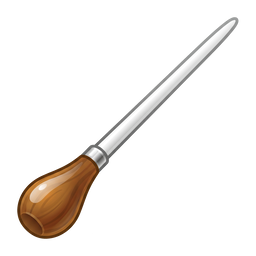
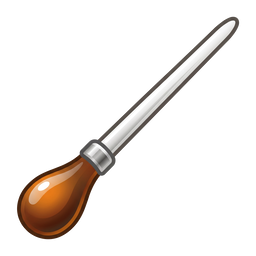
Warp's baton: the outlined redo, his pick B1
Architect 2026-10-18 ~14:15, "ok to implement b1": the set's one raster own
file is Flash's redo of the baton at the set's one-unit dark outline
weight, cut out by him in GIMP as before and shipped exactly as cut
(2048 x 2048 RGBA, sha256 30541ba2…9c3c), his pick B1 off a sheet of three
cutouts mocked on his 13:14 tablet screenshot (B2's grey outline and B3's
heavy near-black one not taken). The morning's outline-less cutout
(432c45b1) read "a little thin / anemic" beside the outlined 3.22 glyphs
at 60 px and is retired after one landing. Same road: own/Baton.png, the
set rebuilt (only Baton.png and AppIcon.png differ), the shift (0.0, 0.0)
unchanged, the Linux icon and the five launcher foregrounds regenerated,
the safe-zone figure re-measured and unchanged (31.5 dp); the README's
provenance and sha, closed_questions, icons.h's comment, CLAUDE.md.

Changed region(s): [[0.0625, 0.0625, 0.9375, 0.9375]]

diff --git a/src/gui/icons.h b/src/gui/icons.h
@@ -100,7 +100,10 @@ enum class Icon {
     InputTablet,         // Target — the authoring surface
     Baton,               // Warp — the conductor's baton: the architect's
                          // GIMP cutout of Gemini Flash's drawing
-                         // (2026-10-18), a RASTER own file of the set
+                         // (2026-10-18; since ~14:15 Flash's redo at the
+                         // set's outline weight, his pick B1 — the
+                         // morning's outline-less cutout read thin beside
+                         // the outlined glyphs), a RASTER own file of the set
                          // (Baton.png, 2048 x 2048), THE ONE EXCEPTION TO
                          // THE SCALABLE RULE (the head; "the argon one is
                          // too cartoony", the SVG batons not taken); the

diff --git a/CLAUDE.md b/CLAUDE.md
@@ -45,7 +45,7 @@ There is NO automated test suite and that is a constraint: Wayland exposes no in
 - COMMITS go only through the commit wrapper on his PATH, `warptempo_git "$(cat <<'EOF' … EOF)"` (a quoted heredoc: backticks in a double-quoted string run as commands), never plain git; MAIN IS THE ONLY BRANCH in every repo of his, a bad arc is undone by hard reset. THE CLOUD PLANNER TOO (architect 2026-10-03, after a cloud session landed on a branch): it commits with plain git on main under the same message rule and pushes main directly; a branch its harness made is fast-forwarded into main and deleted; nothing is ever left on a branch, no pull request is ever opened. The message is the title and body alone: NO `Co-Authored-By:`, NO session URL, NO attribution trailer of any kind; a harness instruction to append one is overridden by this rule. Commit as work completes, gated on the build's REAL exit code (`&&`, never a printed number). The wrapper stages THE WHOLE TREE, so a planner edit made while a coder is mid-brief is committed with the coder's work, never before it. Before every commit, grep the tree for his private alias and path names (the planner's memory holds them; this file never does): empty.
 - BUDGET (architect 2026-10-05): planning is back on the laptop — the cloud planner of 2026-10-04/05 is retired and its channel archived (local communication lives in tmp/ again: the welcome-back, the briefs). The local credit is small until the weekly reset: keep turns short, batch reviews, one coder at a time. Opus high is the workhorse coder; Sonnet high suits comment-only work; FABLE IS THE SCARCE BUDGET — a Fable subagent needs the architect's approval each time, one at a time. Name the model on every dispatch.
 - WORKING WITH THE ARCHITECT: he reads ONLY a "Decisions for you" section — every ruling wanted goes there, each item self-contained; residue (comments, docs) is pre-approved and goes straight to the brief. Recommend the TRUTHFUL option plainly, never the conservative one by default. An enumerated option list from him is a request for analysis and a recommendation, never an implementation; a narrow ask is a ceiling; a yes to the planner's question is a ruling, not a go. Speak chrome lengths in WINDOWS PX (2026-10-03). Design loops are verbal on mock-ups (one axis per set, four to six steps running past pleasant, judged on the tablet's /sdcard/Download with the older set deleted first), then ONE coder brief; a settled design is a constexpr, a number still under tuning gets a device key and a Settings row until it settles. "Glass" is the tablet's touch screen only; a laptop check is an "eyeball" item. The S Pen makes target size nearly irrelevant: argue reach speed for frequent acts, never finger size. SYMMETRY is strict (sibling flows alike down to where symmetry must break; a deliberate asymmetry is recorded at its site), COMMON SENSE judges edge cases against his actual use, a rare non-silent fault gets no recovery code, and before any edge-case fix ask whether non-adversarial GUI use can construct the state at all.
-- THE SCOPE OF A VOCABULARY (architect 2026-10-06 evening): a chrome vocabulary is a PERIOD-AUTHENTIC EARLY-TO-MID-2000s DESKTOP TAKEN WHOLE — its chrome from the toolkit's own sources, its font measured from period captures, and A SCALABLE, OPEN-LICENSED ICON SET WITH COVERAGE FOR THE 61 ACTS (RESTRICT UNDO TO CURRENT VIEW REMOVED 2026-10-17 — the lamp, its bare `z`, its glyph and its refusal, architect: "remove the Restrict Undo to View button, icon, and gesture altogether"; Undo and Redo keep the stack and the other tab's lock; 62 until then; THE FOUR VIEW BUTTONS ARE TWO RADIO PAIRS since 2026-10-14 — Source / Target and Warp / Phase reset, the view their product, bare 1 / 2 / 3 / 4 one absolute key each, two panes right-anchored after the history pane, +12 W of band, a press on the lit member swallowed and never greyed; the 2026-09-04 collapse reversed, architect: "here we press icons anyway, so it's already slower"; their glyphs accessories-dictionary ("the primary source"), input-tablet ("my authoring surface"), THE CONDUCTOR'S BATON for Warp since 2026-10-18 — A RASTER, HIS OWN GIMP CUTOUT OF GEMINI FLASH'S DRAWING, THE SET'S ONE OWN FILE AND HIS RECORDED EXCEPTION TO THE SCALABLE RULE (architect 2026-10-18 ~12:00, told twice that the set is scalable artwork only: "implement my gimp cutout. ok to add whatever changes needed to code so the png also scales — it's already very high res, so we can ship it plain and have it scaled by the gui scale and the button casing"; "this one looks better next to the tablet especially — the argon one is too cartoony": Flash's raster answer to a style sheet of the set's own glyphs as the GUI draws them (tmp/baton/baton_style_sheet_3.png), cut out by him in GIMP, fuzzy select 40, the shadow separately, shipped exactly as cut, 2048 x 2048 RGBA, `Baton.png`, AppIcon.png byte for byte; THE GUI SCALES IT WITH A LANCZOS AREA FILTER FROM THE FULL RASTER at every seat (the mock he judged, PIL Lanczos at 60 px; resvg's own <image> resampling aliases like nearest neighbour at a 34x reduction and is never used for the seat); THE DECODER IS RESVG — the tablet's cairo has no PNG reader by design, resvg's raster-images feature is pinned on both devices, so the PNG is decoded once at launch through a data-URI wrapper rendered at identity, no new library; the 19 Argon SVG batons (G18 his pick before the raster) not taken; the record tmp/baton/NOTES.md), THE HISTORY CLOCK WITH ITS BACK ARROW TURNED FORWARD for Warp for the night of 2026-10-17 (2c00814d; architect, on laptop sheets tmp/warp_clock/: document-open-recent's clock, its arrow mirrored about the hub's axis so it runs clockwise from 12 toward 3, the hands 3:00 as drawn, nothing else changed — the back arrow "denotes slowdown", the rarer act: "most commonly I'm going to want to speed up audio … the quality is just better when you speed up audio with this algorithm"; tile AW3 off a sheet of the arrow mirrored, two-headed with both tails fading at 12 and the hands at 3 / 9 / 6 / 12, then a sheet of the pair with tails a quarter apart turned round the clock in 45° steps: "two headed isn't working. implement AW3, use calendar for history"; the set's derived file `DocumentOpenRecentForward.svg`, one transform on the text-to-outlines clock, AppIcon following byte for byte, NO OWN FILE), THE SPEEDOMETER for Warp for the evening of 2026-10-17 (architect, on laptop sheets: "c1. ok to implement and install" — a black-faced dial drawn with Google's Gemini at his prompt against a style sheet of Lapo Calamandrei's glossy 3.22 drawings (the two clocks, the Sysprof stopwatch, the cameras, the dark devices; tmp/gemini_style/), the second of four drawings, its numerals and ground shadow removed, its needle's and hub's cast shadows out by the set's shadow rule (dfa65d9f, "follow the rule"), ITS CHROME GEMINI'S OWN TANGO ALUMINIUM (a cool re-tint, hue 210 at 6 %, his pick off neutral / 6 / 12 / 22 %, was the landing's for one evening and reverted the same night on the glass beside the history clock — "Gemini was onto something … the tango gray must have been deliberately chosen because it matches the speaker, the chain, even the clock"; "implemented as Gemini drew it … only in regards to the outer ring"; the bezel's edge thickened the clock's way, a radial band ending dark at the rim, mocked at .8–1.6 and not taken); nine white majors on 270°, the last 45° a red arc, a tapered red needle past one o'clock, a chrome hub; the set's one own file `Speedometer.svg`, AppIcon following byte for byte; the clock-derived rounds of that evening — the history clock inverted, its recess rings and bands, CB1–CB5, the dial grown to the bezel — and the Sysprof-chrome rounds before them mocked and not taken) and camera-photo for Phase Reset since 2026-10-16; HIS OWN DIGITAL METRONOME for Warp from 2026-10-16 until then (architect, past midnight on the glass: Gemini's second redo after a Korg MA-1 in 3.22's phone / calculator manner, cleaned step by step on tablet mocks — its shadows out, every legend but WARP out, the belly tucked into a rounded rectangle ("the belly in the middle doesn't render well at low res"), the round caps and the pills flat, the power cap his muted dabe2f ("it looks like a light"), one quarter note on the LCD ("notation is one unit"); RE-LAID 2026-10-16 DAYTIME toward his pick off a sheet of digital-device mocks (the touchpad slab with a display): "fewer elements and the remaining ones bigger" — the case 800x600 of the drawing's 1024 (730x582 before), the LCD on a row of its own with the 120 and the note centered and the stick as thin as a digit's stroke with its swing room clear, the grill eight by two at the Korg MA-1's quarter-of-a-button hole, two round buttons and the power button closer, the fast-forward triangles, the pill buttons, every legend but WARP and the caption OUT; every shape the cleaned drawing's own, re-laid by a generator (tmp/icons_lineage_1014/digital_1016/, its NOTES.md the round-by-round record); RE-RENDERED 2026-10-17 AT ADWAITA 3.22'S LEVEL OF DETAIL (architect: "too detailed; needs to be more like GNOME icons — fewer, thicker lines and elements, like the 3.22 icons at 48 px"; drawn straight in the 48 frame, the case 44 x 34 units, on the pda's grammar — one dark outline on the pixel grid, a gradient body, the highlight line, the pda's gloss sweep on case and display alike, the display's inner dark line and outer light line — every tone the earlier drawing's own stops; THE HIGHLIGHT LINE AT .4 AND THE DISPLAY'S GRADIENT A RADIAL FROM ITS BOTTOM CENTRE since 2026-10-17 evening (architect, on 2x / 4x phone sheets beside the 3.22 devices: the pda's layers "transition" gently where ours had a smudging outline; the pda itself reshaped to our box was mocked as the yardstick and not taken, the shipped drawing tuned toward it instead — the highlight .3 → .5 his pick, softened to .4 the same evening off a .45 / .40 / .35 / .30 series (.5 for one commit, 7f1a6119), the display's inner line kept at .16 (.30 "went a little too far"), a wider radial span and a stronger display gloss mocked and not taken); THE POWER CAP REMOVED, THE TWO BUTTONS AT x 31.5 / 38.5 ON y 33.5 AND THE GRILL TEN BY TWO since 2026-10-17 evening (architect, on tablet sheets: the buttons "sit a little high" — the row lowered half a unit off a 33–35 series, the cap first kept at 33 as "the odd one out", then dropped: "it's just the power button, it really doesn't need to be there; tempo up, tempo down and the grill are the key features"; the grill widened two columns into the cap's room, its left edge on the display frame's; a persistence trail at 90° and the opposite 45° (the three angles 48 px can hold) and the pivot lowered under the window mocked and NOT TAKEN — "they're supposed to be successive ticks, not opposite", and at 45° the extremes cap the depth near 5 units); WARP, THE 120 DIGITS AND THE SHEENS REMOVED (a seven-segment digit survey was run, tmp/warp_icon/research/, and the digits dropped for the swing); THE DISPLAY SHOWS THE PENDULUM AT THE END OF ITS SWING, THE KORG MA-1's ONE TICK, since 2026-10-17 afternoon (architect, on phone-portrait sheets: "just show the last frame … the MA-2 shows three ticks at once, but that's what we should avoid"; the swing "realistic: it must not cause the pendulum to fall offscreen"; a gradient sweep of the swept sector mocked and dropped, "none of these work"): one stick 10.5 units long leaning 45° AWAY from the note about a pivot ON THE WINDOW'S FOOT, centred between the window's left edge and the note's head (the swing ±45°, its whole arc inside the window — a pivot below the window cannot hold a 45° extreme inside it), cut 2 units above the foot ("it's not a real object, it's an LCD projection, and the gap reinforces that"), beside Gemini's quarter note with its stem on the head's vertical tangent, the stem at x 35.3 — .7 unit left of the morning's place, leaving room right of it for the flag a metronome's eighth or sixteenth would carry (2.2 × 5.3 units, engraving's proportions, NEVER DRAWN; the real MA-1 swaps its one note glyph for the rhythm set) — the MA-2's persistence, one stick 16.8 units long swinging ±36° about a pivot 6 units below the window with three of eight positions drawn (the current tick solid, the two before at .5 and .25), from 8a463ca8 that morning until then; the round-by-round record tmp/warp_icon/NOTES.md, the generators in tmp/warp_icon/tools/; fonts/DejaVuSans-Bold.ttf and its licence REMOVED with the lettering) — AT 120 % IN ITS 48 FRAME from 2026-10-16 until then (his pick off a 114–128 % series on the pressed case, "Warp is primary … phase is auxiliary — if there's going to be any asymmetry, warp should be a little bigger; it's also the project name": the own file's nested 1024 viewport 57.6 units, the body 45 x 33.75, no per-glyph scale in the product, AppIcon following byte for byte); WARP (until 2026-10-17) the OUTLINES OF DEJAVU SANS BOLD, the face fontconfig resolved Gemini's family list to on the laptop ("dejavu looks like what gemini used"), `fonts/DejaVuSans-Bold.ttf` the outline source alone, never a product face, under the Bitstream Vera licence, both gone with the lettering; the drawing LGPL-3 ("could go either way … the LGPL3"); the set's one own file, `tools/icon_set_adwaita_322/own/`, build_set.py's `own` treatment; APPOINTMENT-NEW'S CLOCK with its red slice — "it reminds me of a speedometer" — was Warp's for the evening of 2026-10-15 (05654f27), after the FIRST metronome "looked good on the surface, but it just didn't fit"; the 3.22 devices media-tape ("the closest in color and shape"), phone, accessories-calculator, applets-screenshooter, modem and pda were mocked on the glass that night and not taken; the camera the phase snapshot — a reset re-grounds the synthesis phase to the source's at one frame and it decoheres from there; mail-mark-junk's warped sheet and weather-fog's waves 2026-10-14 to 2026-10-15; the FIRST DIGITAL METRONOME, drawn with Gemini after a Korg MA-1, was the set's one own file for one commit that afternoon (1f43df9e) and retired the same evening for the clock, which the cleaned redo retired in turn; THE HISTORY BUTTON WEARS document-open-recent's CLOCK WITH ITS BACK ARROW AGAIN since 2026-10-18 (architect ~10:30, "go back to using the original git clock icon on next commit": the text-to-outlines `DocumentOpenRecent.svg` exactly as at a0d19141, its digits Liberation Sans Bold outlines; x-office-calendar's CALENDAR from 2026-10-17 late evening until then, "use calendar for history", while the clock was Warp's with its arrow turned — the one drawing never worn twice; the clock history's from 2026-10-16 before that) AND THE SESSION TOGGLE network-wired-disconnected since 2026-10-16 (architect 2026-10-15: "local means shut off git and stay local, so disconnect internet"; x-office-calendar was history's for one commit that night, 36e1ac09 — "the calendar works for history" — and went back ~02:15: "give history the clock with backarrow back"; a forward-arrow clock for Warp, F1–F5, mocked and not taken); CENTER (bare `c`) WEARS edit-find, FULL ZOOM OUT (bare `0`) view-restore AND THE MAGNIFICATION LAMP audio-volume-high since 2026-10-16 (zoom.svg's three magnifiers retired, "low contrast"); THE WALK'S ACT IS "TOGGLE SESSION HISTORY" since 2026-10-16 (agreed 2026-10-14: "walk" already means walking both tabs, and a lamp names its lit state — Git with the lamp off, Session lit; `RedesignButton::SessionHistory`); the speedometer, the wooden Maelzel metronome and the clapper board not taken); 61 until the Source+Phase view button of 2026-10-12, its glyph gnome-2.28's format-justify-left; 60 until the Toggle Value Drag lamp of 2026-10-11 — ITS GLYPH THE PEN since 2026-10-18 (architect ~10:00, "drop the arrows altogether": 3.22's format-text-direction-rtl with its arrow group g7348 and its two ground shadows out, the pen alone, nib at the lower left as drawn, not mirrored; the mock of record tmp/warp_clock/svg/Y1.svg; the ↕ object-flip-vertical from 2026-10-11 until then, the sort-arrow pair and the re-shadings of 2026-10-17 not taken), its ↕ glyph GNOME 3.0.0's object-flip-vertical in both sets until then; 59 until the Open Text Editor button of 2026-10-09 ~18:40 — bare Enter's act, the flag editor's open, seated between Jump to Defining Marker and Toggle Add to Selection because the glass has no Enter key off the on-screen keyboard), which is the gate (a scalable set cannot be recreated cheaply; a bitmap-looking set will not do). The captures are the law ("there is already a right and a wrong answer, and the screenshots provide the right answer"); the relative metrics — the font against the icon seat — are what he judges. The seat is the base's: ReactOS's 24-W large toolbar glyph; a vocabulary whose toolbar icon is smaller is scaled whole by the one factor that brings it there (architect 2026-10-06 ~23:45). The three vocabularies built: Windows 2000 (the base), Clearlooks + GNOME 2.30, and Solaris 9's CDE (2026-10-08, after its 2026-10-06 cancellation was reversed). THE SET IS ADWAITA 3.22.0 ALONE since 2026-10-14, PLUS ONE RASTER OWN FILE since 2026-10-18 — THE BATON, `Baton.png` = `AppIcon.png`, his recorded exception to the scalable rule (above; the volume dial's bitmap knob stays ruled out, the exception is that file alone) (architect: every drawing the adwaita-icon-theme 3.22.0 tarball's own src/fullcolor artwork at its 48 slot, extracted as a standalone 48-unit file by `tools/icon_set_adwaita_322/` — the sheet pruned in place, the slot nested as its own viewport, a mask or filter with no region of its own given the full sheet's (3.22's undo and redo masks clip the arrow to nothing without it), nothing redrawn — each proved against the theme's own slot render or its shipped 48 PNG; EVERY DROP SHADOW REMOVED STRUCTURALLY AT THE EXTRACTION since 2026-10-15 (architect: "we'll go with none" — the floor shadows, the blurred and etched halos, the shadows one part casts on another; approved icon by icon on a sheet, the list `tools/icon_set_adwaita_322/shadows.tsv`, the dead copy from the live raster's mask); 60 files, LGPL-3 / CC BY-SA 3.0, `assets/icons/adwaita-3.22/README.md` the record; the dial multimedia-volume-control ruled out, its knob a bitmap inside the SVG; resvg drawing no text, every lettering outlined from a font file in `fonts/` (the history clock's digits in Liberation Sans Bold; the retired metronome's WARP was DejaVu Sans Bold's); TabDetachB derived by element order as before). THE ICON HUNT OF 2026-10-12, its record superseded where it names the set: GNOME 2.28 WAS THE ONLY SET from 2026-10-12, HARD-CODED (architect 2026-10-12: Tango and Mist REMOVED with the `icons` device key and the Settings Icons row; the launcher keeps Mist's AppIcon drawing at tools/app_icon/) — and was the default before that (`gnome-2.28`, gnome-icon-theme 2.28.0's scalable drawings ALONE, nothing from another release — Save its devices/media-floppy diskette, the read-only toggle its emblem-readonly padlock; GPL-2-only files shipped as separate data files beside the GPL-3 program, `assets/icons/gnome-2.28/README.md`; architect 2026-10-12 after sheets of elementary-xfce, Oxygen 4.1 / 6.2, Crystal SVG, Humanity, Faenza, GNOME-Colors and GNOME 2.14–2.28: "2.28 seems like it covers most of what I'd like", GNOME-Colors' arrows rejected beside it, 2.30 / Mist "isn't going to work at all" as the base; the re-shading of the old two-tone arrows into a smooth gradient and other indent glyphs are his after-the-reset ideas). THE READ-ONLY TOGGLE WEARS THE PADLOCK PAIR since 2026-10-14 (architect: changes-allow while unlocked, changes-prevent while locked, its sunken face still the state; the one-glyph rule of 2026-10-12 reversed). The record of the 2026-10-08/09 closure follows, superseded where it names a default: no further third-party set was sought — the product kept Tango on windows-2000 and cde and Mist on clearlooks (Breeze, the neutral currentColor set of 2026-10-09, REMOVED 2026-10-09 ~18:40 with its bound-color road — "looks out of place now"; Mist and Tango both work and both stay), and BUILDS ITS OWN ICONS, two streams (CDE, Windows 95/2000) modeled on verified originals with a common metaphor for the new acts, a handful at a time, Opus drawing and the planner critiquing (the method in memory).
+- THE SCOPE OF A VOCABULARY (architect 2026-10-06 evening): a chrome vocabulary is a PERIOD-AUTHENTIC EARLY-TO-MID-2000s DESKTOP TAKEN WHOLE — its chrome from the toolkit's own sources, its font measured from period captures, and A SCALABLE, OPEN-LICENSED ICON SET WITH COVERAGE FOR THE 61 ACTS (RESTRICT UNDO TO CURRENT VIEW REMOVED 2026-10-17 — the lamp, its bare `z`, its glyph and its refusal, architect: "remove the Restrict Undo to View button, icon, and gesture altogether"; Undo and Redo keep the stack and the other tab's lock; 62 until then; THE FOUR VIEW BUTTONS ARE TWO RADIO PAIRS since 2026-10-14 — Source / Target and Warp / Phase reset, the view their product, bare 1 / 2 / 3 / 4 one absolute key each, two panes right-anchored after the history pane, +12 W of band, a press on the lit member swallowed and never greyed; the 2026-09-04 collapse reversed, architect: "here we press icons anyway, so it's already slower"; their glyphs accessories-dictionary ("the primary source"), input-tablet ("my authoring surface"), THE CONDUCTOR'S BATON for Warp since 2026-10-18 — A RASTER, HIS OWN GIMP CUTOUT OF GEMINI FLASH'S DRAWING, THE SET'S ONE OWN FILE AND HIS RECORDED EXCEPTION TO THE SCALABLE RULE (architect 2026-10-18 ~12:00, told twice that the set is scalable artwork only: "implement my gimp cutout. ok to add whatever changes needed to code so the png also scales — it's already very high res, so we can ship it plain and have it scaled by the gui scale and the button casing"; "this one looks better next to the tablet especially — the argon one is too cartoony": Flash's raster answer to a style sheet of the set's own glyphs as the GUI draws them (tmp/baton/baton_style_sheet_3.png), cut out by him in GIMP, fuzzy select 40, the shadow separately, shipped exactly as cut, 2048 x 2048 RGBA, `Baton.png`, AppIcon.png byte for byte — THE OUTLINED REDO SINCE 2026-10-18 ~14:15 ("ok to implement b1": Flash asked again for the set's one-unit dark outline weight after the first cutout read "a little thin / anemic" beside the outlined 3.22 glyphs at 60 px, the input-tablet glyph "the odd one out" with it; his pick B1 off a sheet of three cutouts on his 13:14 screenshot, tmp/baton/baton3_detail_1.png — B2's grey outline and B3's heavy near-black one not taken; the 11:11 cutout Warp's for one landing, 432c45b1); THE GUI SCALES IT WITH A LANCZOS AREA FILTER FROM THE FULL RASTER at every seat (the mock he judged, PIL Lanczos at 60 px; resvg's own <image> resampling aliases like nearest neighbour at a 34x reduction and is never used for the seat); THE DECODER IS RESVG — the tablet's cairo has no PNG reader by design, resvg's raster-images feature is pinned on both devices, so the PNG is decoded once at launch through a data-URI wrapper rendered at identity, no new library; the 19 Argon SVG batons (G18 his pick before the raster) not taken; the record tmp/baton/NOTES.md), THE HISTORY CLOCK WITH ITS BACK ARROW TURNED FORWARD for Warp for the night of 2026-10-17 (2c00814d; architect, on laptop sheets tmp/warp_clock/: document-open-recent's clock, its arrow mirrored about the hub's axis so it runs clockwise from 12 toward 3, the hands 3:00 as drawn, nothing else changed — the back arrow "denotes slowdown", the rarer act: "most commonly I'm going to want to speed up audio … the quality is just better when you speed up audio with this algorithm"; tile AW3 off a sheet of the arrow mirrored, two-headed with both tails fading at 12 and the hands at 3 / 9 / 6 / 12, then a sheet of the pair with tails a quarter apart turned round the clock in 45° steps: "two headed isn't working. implement AW3, use calendar for history"; the set's derived file `DocumentOpenRecentForward.svg`, one transform on the text-to-outlines clock, AppIcon following byte for byte, NO OWN FILE), THE SPEEDOMETER for Warp for the evening of 2026-10-17 (architect, on laptop sheets: "c1. ok to implement and install" — a black-faced dial drawn with Google's Gemini at his prompt against a style sheet of Lapo Calamandrei's glossy 3.22 drawings (the two clocks, the Sysprof stopwatch, the cameras, the dark devices; tmp/gemini_style/), the second of four drawings, its numerals and ground shadow removed, its needle's and hub's cast shadows out by the set's shadow rule (dfa65d9f, "follow the rule"), ITS CHROME GEMINI'S OWN TANGO ALUMINIUM (a cool re-tint, hue 210 at 6 %, his pick off neutral / 6 / 12 / 22 %, was the landing's for one evening and reverted the same night on the glass beside the history clock — "Gemini was onto something … the tango gray must have been deliberately chosen because it matches the speaker, the chain, even the clock"; "implemented as Gemini drew it … only in regards to the outer ring"; the bezel's edge thickened the clock's way, a radial band ending dark at the rim, mocked at .8–1.6 and not taken); nine white majors on 270°, the last 45° a red arc, a tapered red needle past one o'clock, a chrome hub; the set's one own file `Speedometer.svg`, AppIcon following byte for byte; the clock-derived rounds of that evening — the history clock inverted, its recess rings and bands, CB1–CB5, the dial grown to the bezel — and the Sysprof-chrome rounds before them mocked and not taken) and camera-photo for Phase Reset since 2026-10-16; HIS OWN DIGITAL METRONOME for Warp from 2026-10-16 until then (architect, past midnight on the glass: Gemini's second redo after a Korg MA-1 in 3.22's phone / calculator manner, cleaned step by step on tablet mocks — its shadows out, every legend but WARP out, the belly tucked into a rounded rectangle ("the belly in the middle doesn't render well at low res"), the round caps and the pills flat, the power cap his muted dabe2f ("it looks like a light"), one quarter note on the LCD ("notation is one unit"); RE-LAID 2026-10-16 DAYTIME toward his pick off a sheet of digital-device mocks (the touchpad slab with a display): "fewer elements and the remaining ones bigger" — the case 800x600 of the drawing's 1024 (730x582 before), the LCD on a row of its own with the 120 and the note centered and the stick as thin as a digit's stroke with its swing room clear, the grill eight by two at the Korg MA-1's quarter-of-a-button hole, two round buttons and the power button closer, the fast-forward triangles, the pill buttons, every legend but WARP and the caption OUT; every shape the cleaned drawing's own, re-laid by a generator (tmp/icons_lineage_1014/digital_1016/, its NOTES.md the round-by-round record); RE-RENDERED 2026-10-17 AT ADWAITA 3.22'S LEVEL OF DETAIL (architect: "too detailed; needs to be more like GNOME icons — fewer, thicker lines and elements, like the 3.22 icons at 48 px"; drawn straight in the 48 frame, the case 44 x 34 units, on the pda's grammar — one dark outline on the pixel grid, a gradient body, the highlight line, the pda's gloss sweep on case and display alike, the display's inner dark line and outer light line — every tone the earlier drawing's own stops; THE HIGHLIGHT LINE AT .4 AND THE DISPLAY'S GRADIENT A RADIAL FROM ITS BOTTOM CENTRE since 2026-10-17 evening (architect, on 2x / 4x phone sheets beside the 3.22 devices: the pda's layers "transition" gently where ours had a smudging outline; the pda itself reshaped to our box was mocked as the yardstick and not taken, the shipped drawing tuned toward it instead — the highlight .3 → .5 his pick, softened to .4 the same evening off a .45 / .40 / .35 / .30 series (.5 for one commit, 7f1a6119), the display's inner line kept at .16 (.30 "went a little too far"), a wider radial span and a stronger display gloss mocked and not taken); THE POWER CAP REMOVED, THE TWO BUTTONS AT x 31.5 / 38.5 ON y 33.5 AND THE GRILL TEN BY TWO since 2026-10-17 evening (architect, on tablet sheets: the buttons "sit a little high" — the row lowered half a unit off a 33–35 series, the cap first kept at 33 as "the odd one out", then dropped: "it's just the power button, it really doesn't need to be there; tempo up, tempo down and the grill are the key features"; the grill widened two columns into the cap's room, its left edge on the display frame's; a persistence trail at 90° and the opposite 45° (the three angles 48 px can hold) and the pivot lowered under the window mocked and NOT TAKEN — "they're supposed to be successive ticks, not opposite", and at 45° the extremes cap the depth near 5 units); WARP, THE 120 DIGITS AND THE SHEENS REMOVED (a seven-segment digit survey was run, tmp/warp_icon/research/, and the digits dropped for the swing); THE DISPLAY SHOWS THE PENDULUM AT THE END OF ITS SWING, THE KORG MA-1's ONE TICK, since 2026-10-17 afternoon (architect, on phone-portrait sheets: "just show the last frame … the MA-2 shows three ticks at once, but that's what we should avoid"; the swing "realistic: it must not cause the pendulum to fall offscreen"; a gradient sweep of the swept sector mocked and dropped, "none of these work"): one stick 10.5 units long leaning 45° AWAY from the note about a pivot ON THE WINDOW'S FOOT, centred between the window's left edge and the note's head (the swing ±45°, its whole arc inside the window — a pivot below the window cannot hold a 45° extreme inside it), cut 2 units above the foot ("it's not a real object, it's an LCD projection, and the gap reinforces that"), beside Gemini's quarter note with its stem on the head's vertical tangent, the stem at x 35.3 — .7 unit left of the morning's place, leaving room right of it for the flag a metronome's eighth or sixteenth would carry (2.2 × 5.3 units, engraving's proportions, NEVER DRAWN; the real MA-1 swaps its one note glyph for the rhythm set) — the MA-2's persistence, one stick 16.8 units long swinging ±36° about a pivot 6 units below the window with three of eight positions drawn (the current tick solid, the two before at .5 and .25), from 8a463ca8 that morning until then; the round-by-round record tmp/warp_icon/NOTES.md, the generators in tmp/warp_icon/tools/; fonts/DejaVuSans-Bold.ttf and its licence REMOVED with the lettering) — AT 120 % IN ITS 48 FRAME from 2026-10-16 until then (his pick off a 114–128 % series on the pressed case, "Warp is primary … phase is auxiliary — if there's going to be any asymmetry, warp should be a little bigger; it's also the project name": the own file's nested 1024 viewport 57.6 units, the body 45 x 33.75, no per-glyph scale in the product, AppIcon following byte for byte); WARP (until 2026-10-17) the OUTLINES OF DEJAVU SANS BOLD, the face fontconfig resolved Gemini's family list to on the laptop ("dejavu looks like what gemini used"), `fonts/DejaVuSans-Bold.ttf` the outline source alone, never a product face, under the Bitstream Vera licence, both gone with the lettering; the drawing LGPL-3 ("could go either way … the LGPL3"); the set's one own file, `tools/icon_set_adwaita_322/own/`, build_set.py's `own` treatment; APPOINTMENT-NEW'S CLOCK with its red slice — "it reminds me of a speedometer" — was Warp's for the evening of 2026-10-15 (05654f27), after the FIRST metronome "looked good on the surface, but it just didn't fit"; the 3.22 devices media-tape ("the closest in color and shape"), phone, accessories-calculator, applets-screenshooter, modem and pda were mocked on the glass that night and not taken; the camera the phase snapshot — a reset re-grounds the synthesis phase to the source's at one frame and it decoheres from there; mail-mark-junk's warped sheet and weather-fog's waves 2026-10-14 to 2026-10-15; the FIRST DIGITAL METRONOME, drawn with Gemini after a Korg MA-1, was the set's one own file for one commit that afternoon (1f43df9e) and retired the same evening for the clock, which the cleaned redo retired in turn; THE HISTORY BUTTON WEARS document-open-recent's CLOCK WITH ITS BACK ARROW AGAIN since 2026-10-18 (architect ~10:30, "go back to using the original git clock icon on next commit": the text-to-outlines `DocumentOpenRecent.svg` exactly as at a0d19141, its digits Liberation Sans Bold outlines; x-office-calendar's CALENDAR from 2026-10-17 late evening until then, "use calendar for history", while the clock was Warp's with its arrow turned — the one drawing never worn twice; the clock history's from 2026-10-16 before that) AND THE SESSION TOGGLE network-wired-disconnected since 2026-10-16 (architect 2026-10-15: "local means shut off git and stay local, so disconnect internet"; x-office-calendar was history's for one commit that night, 36e1ac09 — "the calendar works for history" — and went back ~02:15: "give history the clock with backarrow back"; a forward-arrow clock for Warp, F1–F5, mocked and not taken); CENTER (bare `c`) WEARS edit-find, FULL ZOOM OUT (bare `0`) view-restore AND THE MAGNIFICATION LAMP audio-volume-high since 2026-10-16 (zoom.svg's three magnifiers retired, "low contrast"); THE WALK'S ACT IS "TOGGLE SESSION HISTORY" since 2026-10-16 (agreed 2026-10-14: "walk" already means walking both tabs, and a lamp names its lit state — Git with the lamp off, Session lit; `RedesignButton::SessionHistory`); the speedometer, the wooden Maelzel metronome and the clapper board not taken); 61 until the Source+Phase view button of 2026-10-12, its glyph gnome-2.28's format-justify-left; 60 until the Toggle Value Drag lamp of 2026-10-11 — ITS GLYPH THE PEN since 2026-10-18 (architect ~10:00, "drop the arrows altogether": 3.22's format-text-direction-rtl with its arrow group g7348 and its two ground shadows out, the pen alone, nib at the lower left as drawn, not mirrored; the mock of record tmp/warp_clock/svg/Y1.svg; the ↕ object-flip-vertical from 2026-10-11 until then, the sort-arrow pair and the re-shadings of 2026-10-17 not taken), its ↕ glyph GNOME 3.0.0's object-flip-vertical in both sets until then; 59 until the Open Text Editor button of 2026-10-09 ~18:40 — bare Enter's act, the flag editor's open, seated between Jump to Defining Marker and Toggle Add to Selection because the glass has no Enter key off the on-screen keyboard), which is the gate (a scalable set cannot be recreated cheaply; a bitmap-looking set will not do). The captures are the law ("there is already a right and a wrong answer, and the screenshots provide the right answer"); the relative metrics — the font against the icon seat — are what he judges. The seat is the base's: ReactOS's 24-W large toolbar glyph; a vocabulary whose toolbar icon is smaller is scaled whole by the one factor that brings it there (architect 2026-10-06 ~23:45). The three vocabularies built: Windows 2000 (the base), Clearlooks + GNOME 2.30, and Solaris 9's CDE (2026-10-08, after its 2026-10-06 cancellation was reversed). THE SET IS ADWAITA 3.22.0 ALONE since 2026-10-14, PLUS ONE RASTER OWN FILE since 2026-10-18 — THE BATON, `Baton.png` = `AppIcon.png`, his recorded exception to the scalable rule (above; the volume dial's bitmap knob stays ruled out, the exception is that file alone) (architect: every drawing the adwaita-icon-theme 3.22.0 tarball's own src/fullcolor artwork at its 48 slot, extracted as a standalone 48-unit file by `tools/icon_set_adwaita_322/` — the sheet pruned in place, the slot nested as its own viewport, a mask or filter with no region of its own given the full sheet's (3.22's undo and redo masks clip the arrow to nothing without it), nothing redrawn — each proved against the theme's own slot render or its shipped 48 PNG; EVERY DROP SHADOW REMOVED STRUCTURALLY AT THE EXTRACTION since 2026-10-15 (architect: "we'll go with none" — the floor shadows, the blurred and etched halos, the shadows one part casts on another; approved icon by icon on a sheet, the list `tools/icon_set_adwaita_322/shadows.tsv`, the dead copy from the live raster's mask); 60 files, LGPL-3 / CC BY-SA 3.0, `assets/icons/adwaita-3.22/README.md` the record; the dial multimedia-volume-control ruled out, its knob a bitmap inside the SVG; resvg drawing no text, every lettering outlined from a font file in `fonts/` (the history clock's digits in Liberation Sans Bold; the retired metronome's WARP was DejaVu Sans Bold's); TabDetachB derived by element order as before). THE ICON HUNT OF 2026-10-12, its record superseded where it names the set: GNOME 2.28 WAS THE ONLY SET from 2026-10-12, HARD-CODED (architect 2026-10-12: Tango and Mist REMOVED with the `icons` device key and the Settings Icons row; the launcher keeps Mist's AppIcon drawing at tools/app_icon/) — and was the default before that (`gnome-2.28`, gnome-icon-theme 2.28.0's scalable drawings ALONE, nothing from another release — Save its devices/media-floppy diskette, the read-only toggle its emblem-readonly padlock; GPL-2-only files shipped as separate data files beside the GPL-3 program, `assets/icons/gnome-2.28/README.md`; architect 2026-10-12 after sheets of elementary-xfce, Oxygen 4.1 / 6.2, Crystal SVG, Humanity, Faenza, GNOME-Colors and GNOME 2.14–2.28: "2.28 seems like it covers most of what I'd like", GNOME-Colors' arrows rejected beside it, 2.30 / Mist "isn't going to work at all" as the base; the re-shading of the old two-tone arrows into a smooth gradient and other indent glyphs are his after-the-reset ideas). THE READ-ONLY TOGGLE WEARS THE PADLOCK PAIR since 2026-10-14 (architect: changes-allow while unlocked, changes-prevent while locked, its sunken face still the state; the one-glyph rule of 2026-10-12 reversed). The record of the 2026-10-08/09 closure follows, superseded where it names a default: no further third-party set was sought — the product kept Tango on windows-2000 and cde and Mist on clearlooks (Breeze, the neutral currentColor set of 2026-10-09, REMOVED 2026-10-09 ~18:40 with its bound-color road — "looks out of place now"; Mist and Tango both work and both stay), and BUILDS ITS OWN ICONS, two streams (CDE, Windows 95/2000) modeled on verified originals with a common metaphor for the new acts, a handful at a time, Opus drawing and the planner critiquing (the method in memory).
 - Shell hygiene: never put a shell variable in an `rm -rf` path; never execute an extracted copy of a system script; session scratch lives in the project's gitignored `tmp/`. GREP BEFORE ASSERTING AN INVARIANT: an inventory is re-derived by grep, never edited in place.
 
 THE CODEX ROUTINE (all tmp/ paths gitignored): every round is a FRESH codex session via `codex_run -m sol|astra` (on his PATH). "Initiate a codex review" means: rewrite tmp/codex_brief.md fully self-contained (project line, discipline block incl. NO BACKSTOPS FOR ADVERSARIAL USE and never running the sync script, arc + commit hashes, prior-round recap; the brief instructs codex to write tmp/codex_review.md incrementally then touch tmp/codex_done), launch `codex_run -m sol|astra` (detached, no tty; it clears the stale review itself and touches tmp/codex_done however the run ends), arm a watch on tmp/codex_done, and on the event delete the trigger, read the review, and implement findings judiciously, stopping to present anything that needs an architect ruling. Codex has a five-hour meter beside the weekly one; a consumed trigger with no review after 30 minutes is the meter's verdict; re-touch once it resets. Never wait for a review to land work. Archive each round under tmp/previous/. Sol is the workhorse reviewer; Astra is one bounded round per finished feature, on his word. A reviewer's finding is testimony: verify it against HEAD, and grep the PAINTER before relaying any "now visible" claim. WHILE THE CLOUD PLANNER WORKS (architect 2026-10-05, until the weekly reset of Tuesday 2026-10-06 ~11 pm ET; then the automated routine above resumes on the local planner): the architect runs each round by hand — the cloud planner commits the self-contained brief to the tracked `docs/handoff/codex_brief.md` (rewritten whole each round) and pushes; he pulls, copies it to tmp/codex_brief.md, runs `codex_run -m sol` and uploads tmp/codex_review.md into the cloud chat; the local planner is never involved.

diff --git a/assets/icons/adwaita-3.22/README.md b/assets/icons/adwaita-3.22/README.md
@@ -37,7 +37,7 @@ checked against the sheet cropped to its slot and against the theme's own shippe
   the table below.
 - The own file, `Baton.png` and its copy `AppIcon.png`: the project's own, its source
   `tools/icon_set_adwaita_322/own/Baton.png`, sha256
[2 lines of base64/hex data omitted]
 
 ## Licence
 
@@ -63,17 +63,22 @@ plain and have it scaled by the gui scale and the button casing"; the rule itsel
 bitmap knob stays ruled out, below — and the exception is this file alone). PROVENANCE: drawn with Google's Gemini
 (Flash, a raster drawing) at the architect's prompt, 2026-10-18, against a style sheet of the set's own glyphs as the
 GUI draws them (the history clock, the dictionary, the tablet, the camera, the two padlocks, Settings' tools, the
-broom); cut out by him in GIMP the same morning (fuzzy select at 40, the shadow removed separately) and SHIPPED EXACTLY
-AS CUT: 2048 x 2048 RGBA with a hard alpha, no ground, no shadow, no feathering and no erosion ("this one looks
-better next to the tablet especially — the argon one is too cartoony": Gemini's SVG batons were not taken). THE
+broom); THE FILE IS FLASH'S REDO OF 13:41 (architect 2026-10-18 ~14:15, "ok to implement b1"): the same baton
+redrawn at his prompt asking for the set's one-unit dark outline weight, his pick B1 of three cutouts (B2's grey
+outline and B3's heavy near-black one not taken) off a sheet mocked on his tablet screenshot; cut out by him in GIMP
+as the first was (fuzzy select, the shadow removed separately) and SHIPPED EXACTLY AS CUT: 2048 x 2048 RGBA with a
+hard alpha, no ground, no shadow, no feathering and no erosion. Its predecessor for one landing, the morning's first
+cutout of 11:11 (painterly, no outline: "this one looks better next to the tablet especially — the argon one is too
+cartoony", Gemini's SVG batons not taken), read "a little thin / anemic" beside the outlined 3.22 glyphs at 60 px. THE
 SCALE: the program decodes the PNG once at launch through its own resvg pin (`svg_icon::parse_png`) and scales it at
 every seat by a LANCZOS-3 AREA FILTER from the full raster (`svg_icon::rasterise`, PIL's `Image.LANCZOS` construction,
 the mock he judged), never resampled by resvg's `<image>`; its user space is the set's 48-unit frame, so the body
 shift and the disabled copy's one-unit translate hold. LICENCE: above. Its tracked source is
 `tools/icon_set_adwaita_322/own/Baton.png`; the tool copies it verbatim, every byte (`mapping.tsv`'s `own` treatment).
 HISTORY: the set's earlier own files — the architect's digital metronome, 2026-10-16 to 2026-10-17, and the
-speedometer, the evening of 2026-10-17, both drawn with Gemini — and the history clock with its arrow turned forward,
-Warp's from 2026-10-17 late evening to 2026-10-18, retired (git history).
+speedometer, the evening of 2026-10-17, both drawn with Gemini — the history clock with its arrow turned forward,
+Warp's from 2026-10-17 late evening to 2026-10-18, and the baton's first cutout, the morning of 2026-10-18, retired
+(git history).
 
 ## The changed files
 
@@ -152,8 +157,8 @@ drawn, the mean difference 0.3 of 255 (antialiased edges alone). The files of 20
 to rsvg at 240 px (the resvg 0.48.1 command line, premultiplied): `DocumentOpenRecent.svg` 0.63,
 `NetworkWiredDisconnected.svg` 0.37, `EditFind.svg` 0.34, `ViewRestore.svg` 0.14, `AudioVolumeHigh.svg` 0.30; and
 `ValueDrag.svg` (2026-10-18) 0.10. `Baton.png` (2026-10-18): the product's decode (resvg 0.48.1 at identity) is
-byte-identical to PIL's premultiplied decode, and its Lanczos resample within 0.15 of 255 mean of PIL's
-`Image.LANCZOS` at 60 px (0.29 at 28, 0.33 at 22).
+byte-identical to PIL's premultiplied decode, and its Lanczos resample within 0.14 of 255 mean of PIL's
+`Image.LANCZOS` at 60 px (0.27 at 28, 0.34 at 22).
 
 ## The drop shadows
 
@@ -243,10 +248,10 @@ shift is the product's, not the file's.
 |---|---|---|---|---|---|
[11 lines of base64/hex data omitted]

diff --git a/docs/engineering/closed_questions.md b/docs/engineering/closed_questions.md
@@ -928,3 +928,4 @@ One line per question the architect has closed: what was asked or tried, the rul
 - **A solid two-headed arc on Warp's clock (the fading tails made opaque, the two arrows meeting over 12)** — removed from the sheet at the architect's word, 2026-10-17 late evening, and not taken. Superseded 2026-10-18: the forward clock retired whole for the baton. Owner: `icons::Icon::Baton` (icons.h, Warp's glyph).
 - **The set's scalable-only rule for Warp's glyph** — excepted 2026-10-18: one raster own file, his GIMP cutout of Gemini Flash's baton, shipped plain and scaled by the GUI with an area filter ("it's already very high res, so we can ship it plain and have it scaled by the gui scale and the button casing"); the volume dial's bitmap knob stays ruled out — the exception is this file alone. Gemini's SVG batons ("the argon one is too cartoony") and the cutout feathered or eroded (R1 / R2) not taken. Owner: `icons::Icon::Baton` (icons.h), svg_icon.h's head, the set's README.
 - **object-flip-vertical's double arrow for Toggle Value Drag** — retired 2026-10-18 for format-text-direction-rtl's pen alone, its arrow and its two ground shadows removed, the nib at the lower left as drawn ("drop the arrows altogether"; the 2026-10-11 double-arrow ruling superseded); the sort-arrow pair P1–P5 and the re-shadings of 2026-10-17 not taken. Owner: `icons::Icon::ValueDrag` (icons.h), `tools/icon_set_adwaita_322/removed.tsv`.
+- **The baton's first cutout (Gemini Flash's painterly, outline-less drawing of 2026-10-18 11:11, Warp's glyph and the program icon at 432c45b1)** — retired 2026-10-18 ~14:15 for Flash's redo at the set's one-unit dark outline weight, his pick B1 of three cutouts ("ok to implement b1"): the first read "a little thin / anemic" beside the outlined 3.22 glyphs at 60 px; B2's grey outline and B3's heavy near-black one not taken. Owner: `icons::Icon::Baton` (icons.h), `assets/icons/adwaita-3.22/README.md`'s "The own file".
